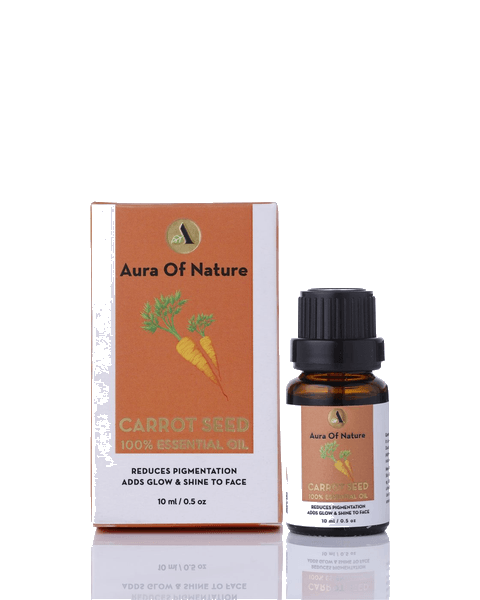
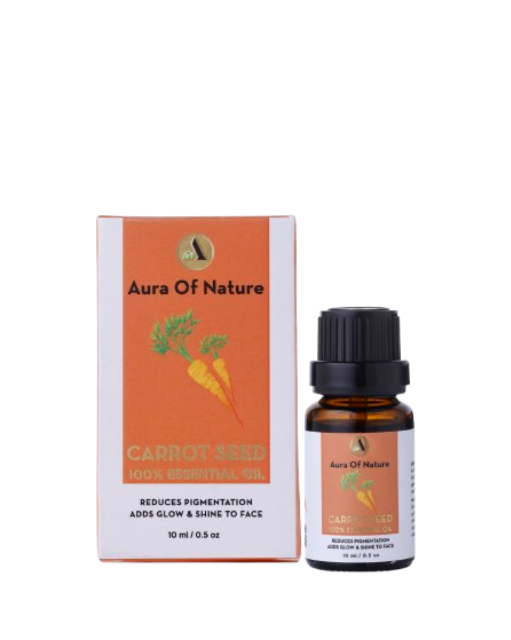
new

diff --git a/client/src/components/home/HomeEditorialScroll.tsx b/client/src/components/home/HomeEditorialScroll.tsx
@@ -11,6 +11,7 @@ import {
 } from '@animations/gsap'
 import { useInView } from '@hooks/useInView'
 import { scrollToY } from '@/lib/lenisControl'
+import { cn } from '@utils/index'
 
 function GhostPill({
   to,
@@ -264,6 +265,7 @@ function Frame({
   className,
   float,
   to,
+  imgClassName,
 }: {
   src: string
   alt: string
@@ -272,13 +274,17 @@ function Frame({
   float?: number
   /** Product detail path — makes the frame clickable */
   to?: string
+  imgClassName?: string
 }) {
   const inner = (
     <>
       <img
         src={src}
         alt={alt}
-        className="h-full w-full object-contain p-[5%] transition-transform duration-700 ease-[cubic-bezier(0.16,1,0.3,1)] group-hover/frame:scale-110"
+        className={cn(
+          'h-full w-full object-contain p-[2%] scale-[1.1] transition-transform duration-700 ease-[cubic-bezier(0.16,1,0.3,1)] group-hover/frame:scale-[1.16]',
+          imgClassName,
+        )}
         loading="lazy"
         draggable={false}
       />
